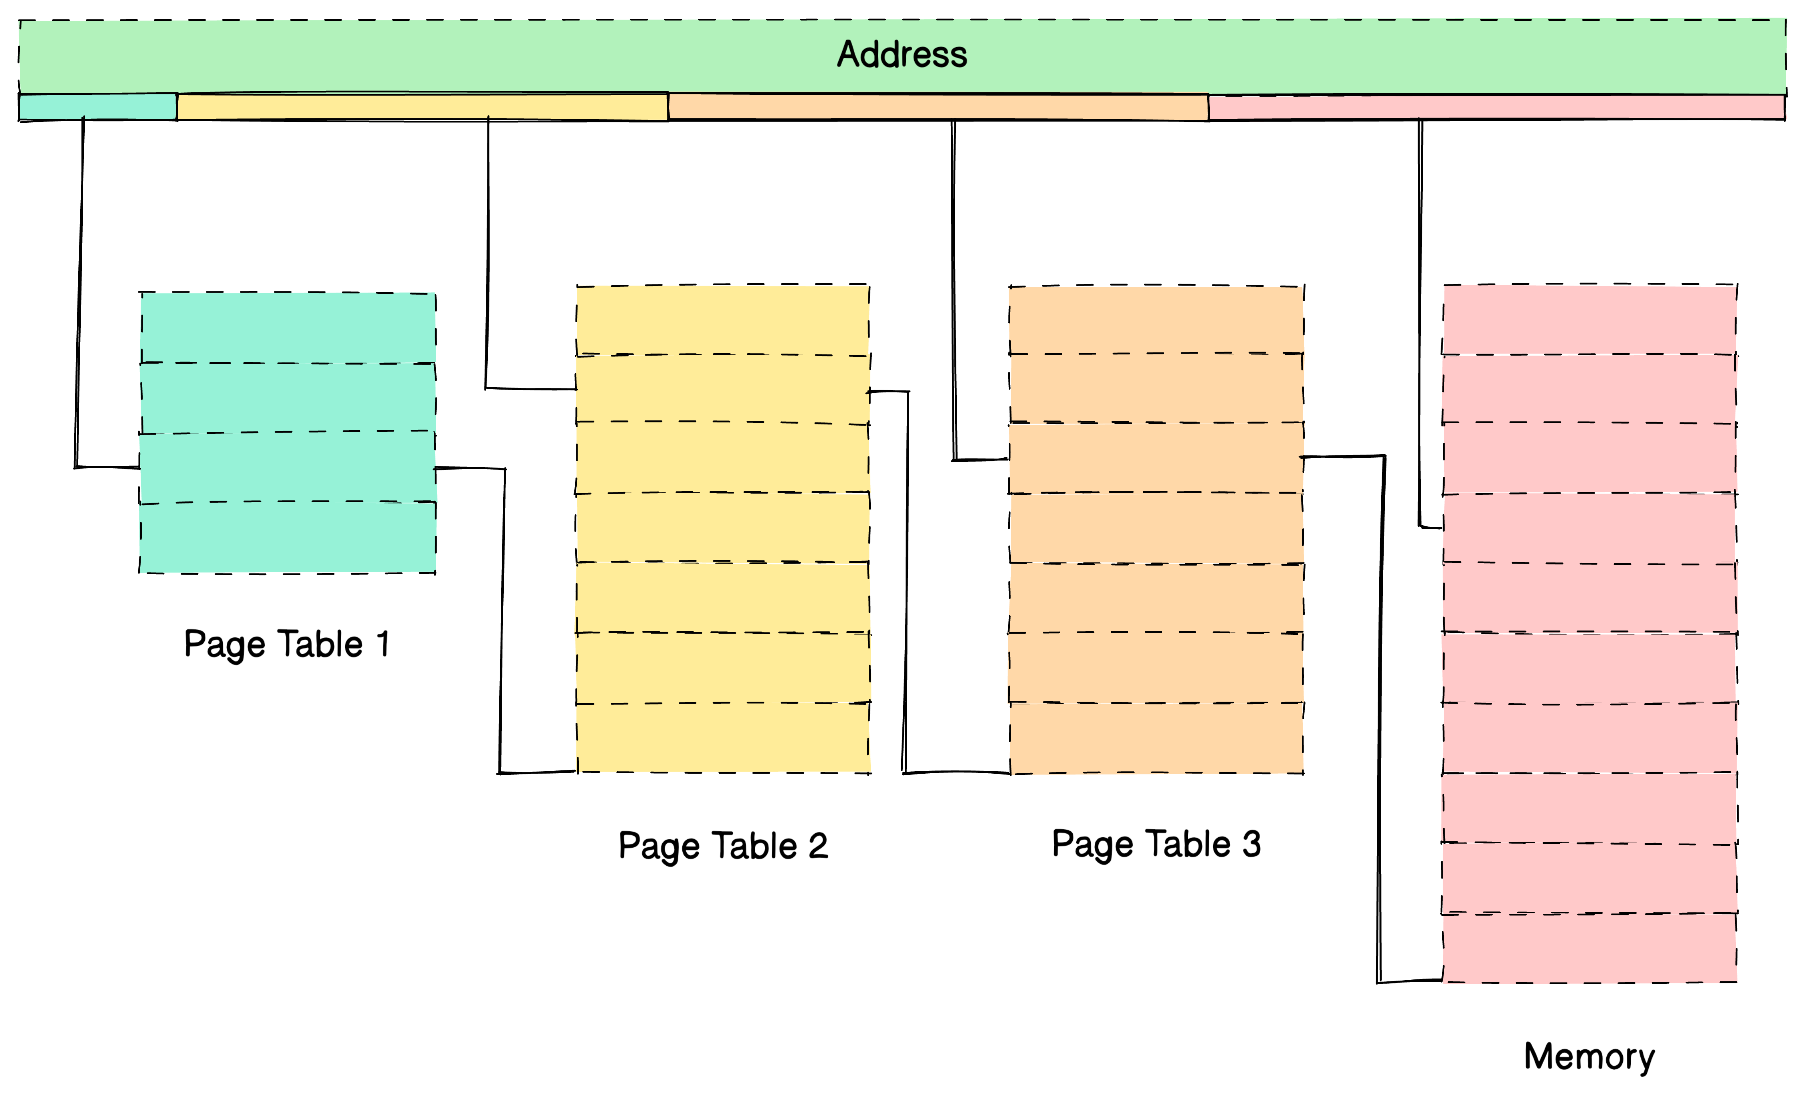
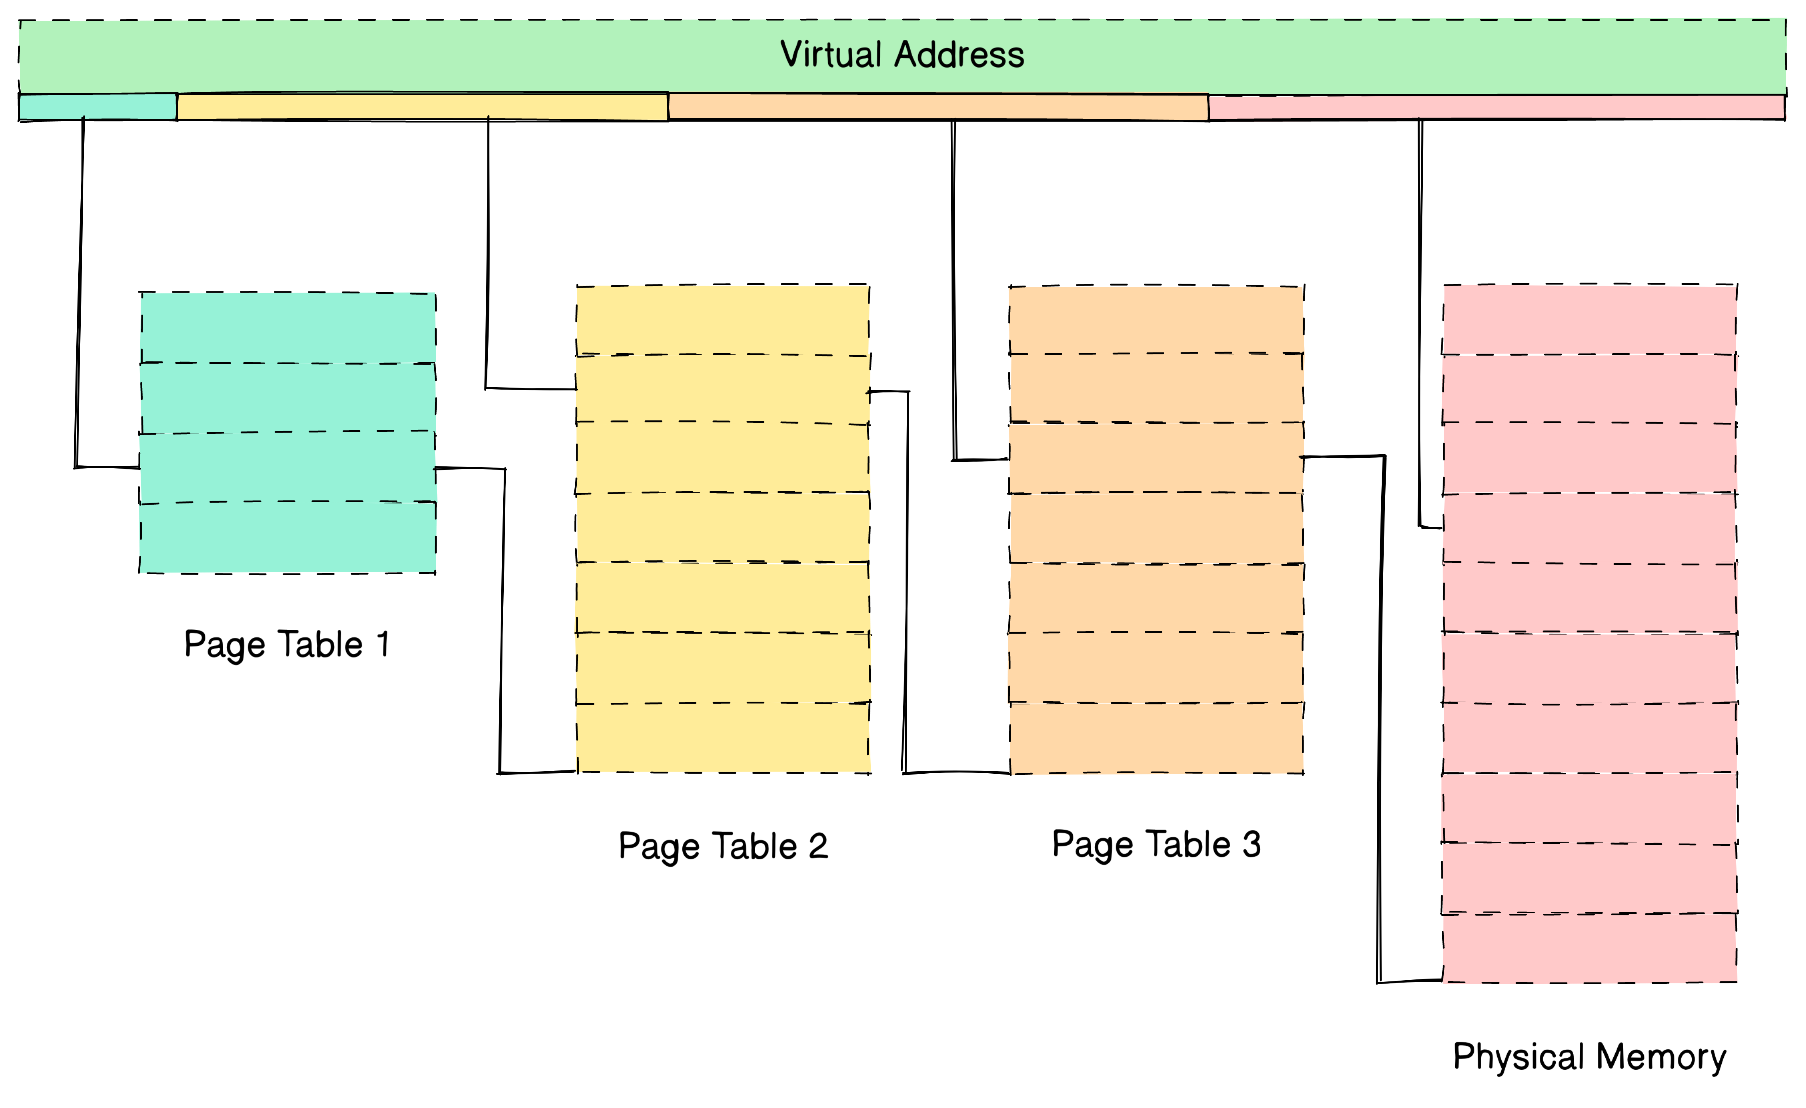
update index + img

Changed region(s): [[0.8062, 0.9206, 0.9612, 0.9819], [0.4341, 0.0307, 0.5891, 0.0614]]

diff --git a/index.html b/index.html
@@ -37,8 +37,8 @@
                   ![](img/optimization_before.png)
 
                   Note:
-		  In green: what we want to do. can't be optimized away.
-		  In yellow/orange: tasks that _must_ be done to achieve the goal.
+                  In green: what we want to do. can't be optimized away.
+                  In yellow/orange: tasks that _must_ be done to achieve the goal.
 
           </textarea>
         </section>
@@ -52,7 +52,7 @@
                   a better price in the same amnt of time, or reduce the time it takes
                   to publish the price
 
-		  we don't do this by maximizing peak performance
+  we don't do this by maximizing peak performance
 
           </textarea>
         </section>
@@ -62,14 +62,17 @@
                   ![](img/boosting.png)
 
                   Note:
-		  There are reasons for which running our compute at
-		  100% capacity will end up with jittery behavior
-		  we attempt to get to the highest performance that does not 
-		  exhibit this behavior
 
-		  even tho the peak perf performs more compute over time
-		  a consistent environment reduces risk and simplifies the
-		  life of the developers
+Unwanted variance in timing or expected performance
+
+There are reasons for which running our compute at
+100% capacity will end up with jittery behavior
+we attempt to get to the highest performance that does not 
+exhibit this behavior
+
+even tho the peak perf performs more compute over time
+a consistent environment reduces risk and simplifies the
+life of the developers
 
           </textarea>
         </section>
@@ -107,7 +110,7 @@
                   This is what the memory layout looks for devices with multiple CPUs
                   like servers
 
-                  *io controller would be attached to each memory controller*
+                  *hanging off the io controller is pci-e*
           </textarea>
         </section>
         <section data-markdown data-separator-notes="Note:">
@@ -116,7 +119,7 @@
 
                   Note:
                   What a server looks like.
-		  Show CPU, memory, nic, disks, numa nodes.
+                  Show CPU, memory, nic, disks, numa nodes.
                   Draw path of IP packet. (cross-numa)
                   Mention interconnect.
                   Mention we put everything in the OS in the slow node
@@ -195,8 +198,8 @@
 
 
                   * By default, the scheduler will move processes around
-		    * higher total system throughput
-		    * at the cost of peak performance for any single process
+                    * higher total system throughput
+                    * at the cost of peak performance for any single process
                     * Cache + data locality implications, interrupted = jitter
 
           </textarea>
@@ -207,7 +210,7 @@
                   ![](img/cpu_pinning.png)
                   Note:
                   * Pinning a single process to a core ensures no interruption + no movement (from scheduler)
-		  * The scheduler-induced pauses go from 1~4ms to 0ms on a pinned process
+                  * The scheduler-induced pauses go from 1~4ms to 0ms on a pinned process
           </textarea>
         </section>
         <section data-markdown data-separator-notes="Note:">
@@ -227,7 +230,7 @@
                   Note:
                   * Steering all IRQs to one core will ensure the others don't have
                     context switches, of course it will deteriorate perf on the sacrifical core
-		  * Pauses up to ~200us disappear
+                  * Pauses up to ~200us disappear
           </textarea>
         </section>
         <section data-markdown data-separator-notes="Note:">
@@ -236,15 +239,10 @@
                   ![](./img/virtual_physical_map.png)
 
                   Note:
-		  For this topic, I'll show a bunch of diagrams with a lot of detail.
-		  The details are not important, you should try to focus only on the idea.
-
                   While applications see a unified, contiguous memory layout
-                  it's not the case. the physical memory is shared
+                  it's not the case. the physical memory is shared and 
                   there is a translation layer, called virtual memory
 
-                  This translation (virtual memory) needs bookkeepping
-                  it is done via a 4 level pointer structure called "page table"
           </textarea>
         </section>
         <section data-markdown data-separator-notes="Note:">
@@ -254,8 +252,8 @@
 
                   Note:
 
-                  the page table structure is not important, only that it takes 4 
-                  *random* memory accesses to locate a physical page
+                  This translation (virtual memory) needs bookkeepping
+                  it is done via a 4 level pointer structure called "page table"
 
                   this happens on _every_ memory access
 
@@ -266,9 +264,9 @@
                   a cache of the virtual address -> physical address mapping
 
                   the TLB is *hardware* and has limited capacity for entries, it can fit
-		  about 1500 pages.
+                  about 1500 pages.
 
-		  The default page size on x86 is 4KB -> 6MB working set memory
+                  The default page size on x86 is 4KB -> 6MB working set memory
                   -> if you can use larger pages, you can cover a bigger region of
                   the physical space with the same amount of entries
 
@@ -339,7 +337,7 @@
                   Note:
 
                   Working with the architecture to minimize overhead, at the cost of
-		  efficiently utilizing resources
+                  efficiently utilizing resources
           </textarea>
         </section>
       </div>
